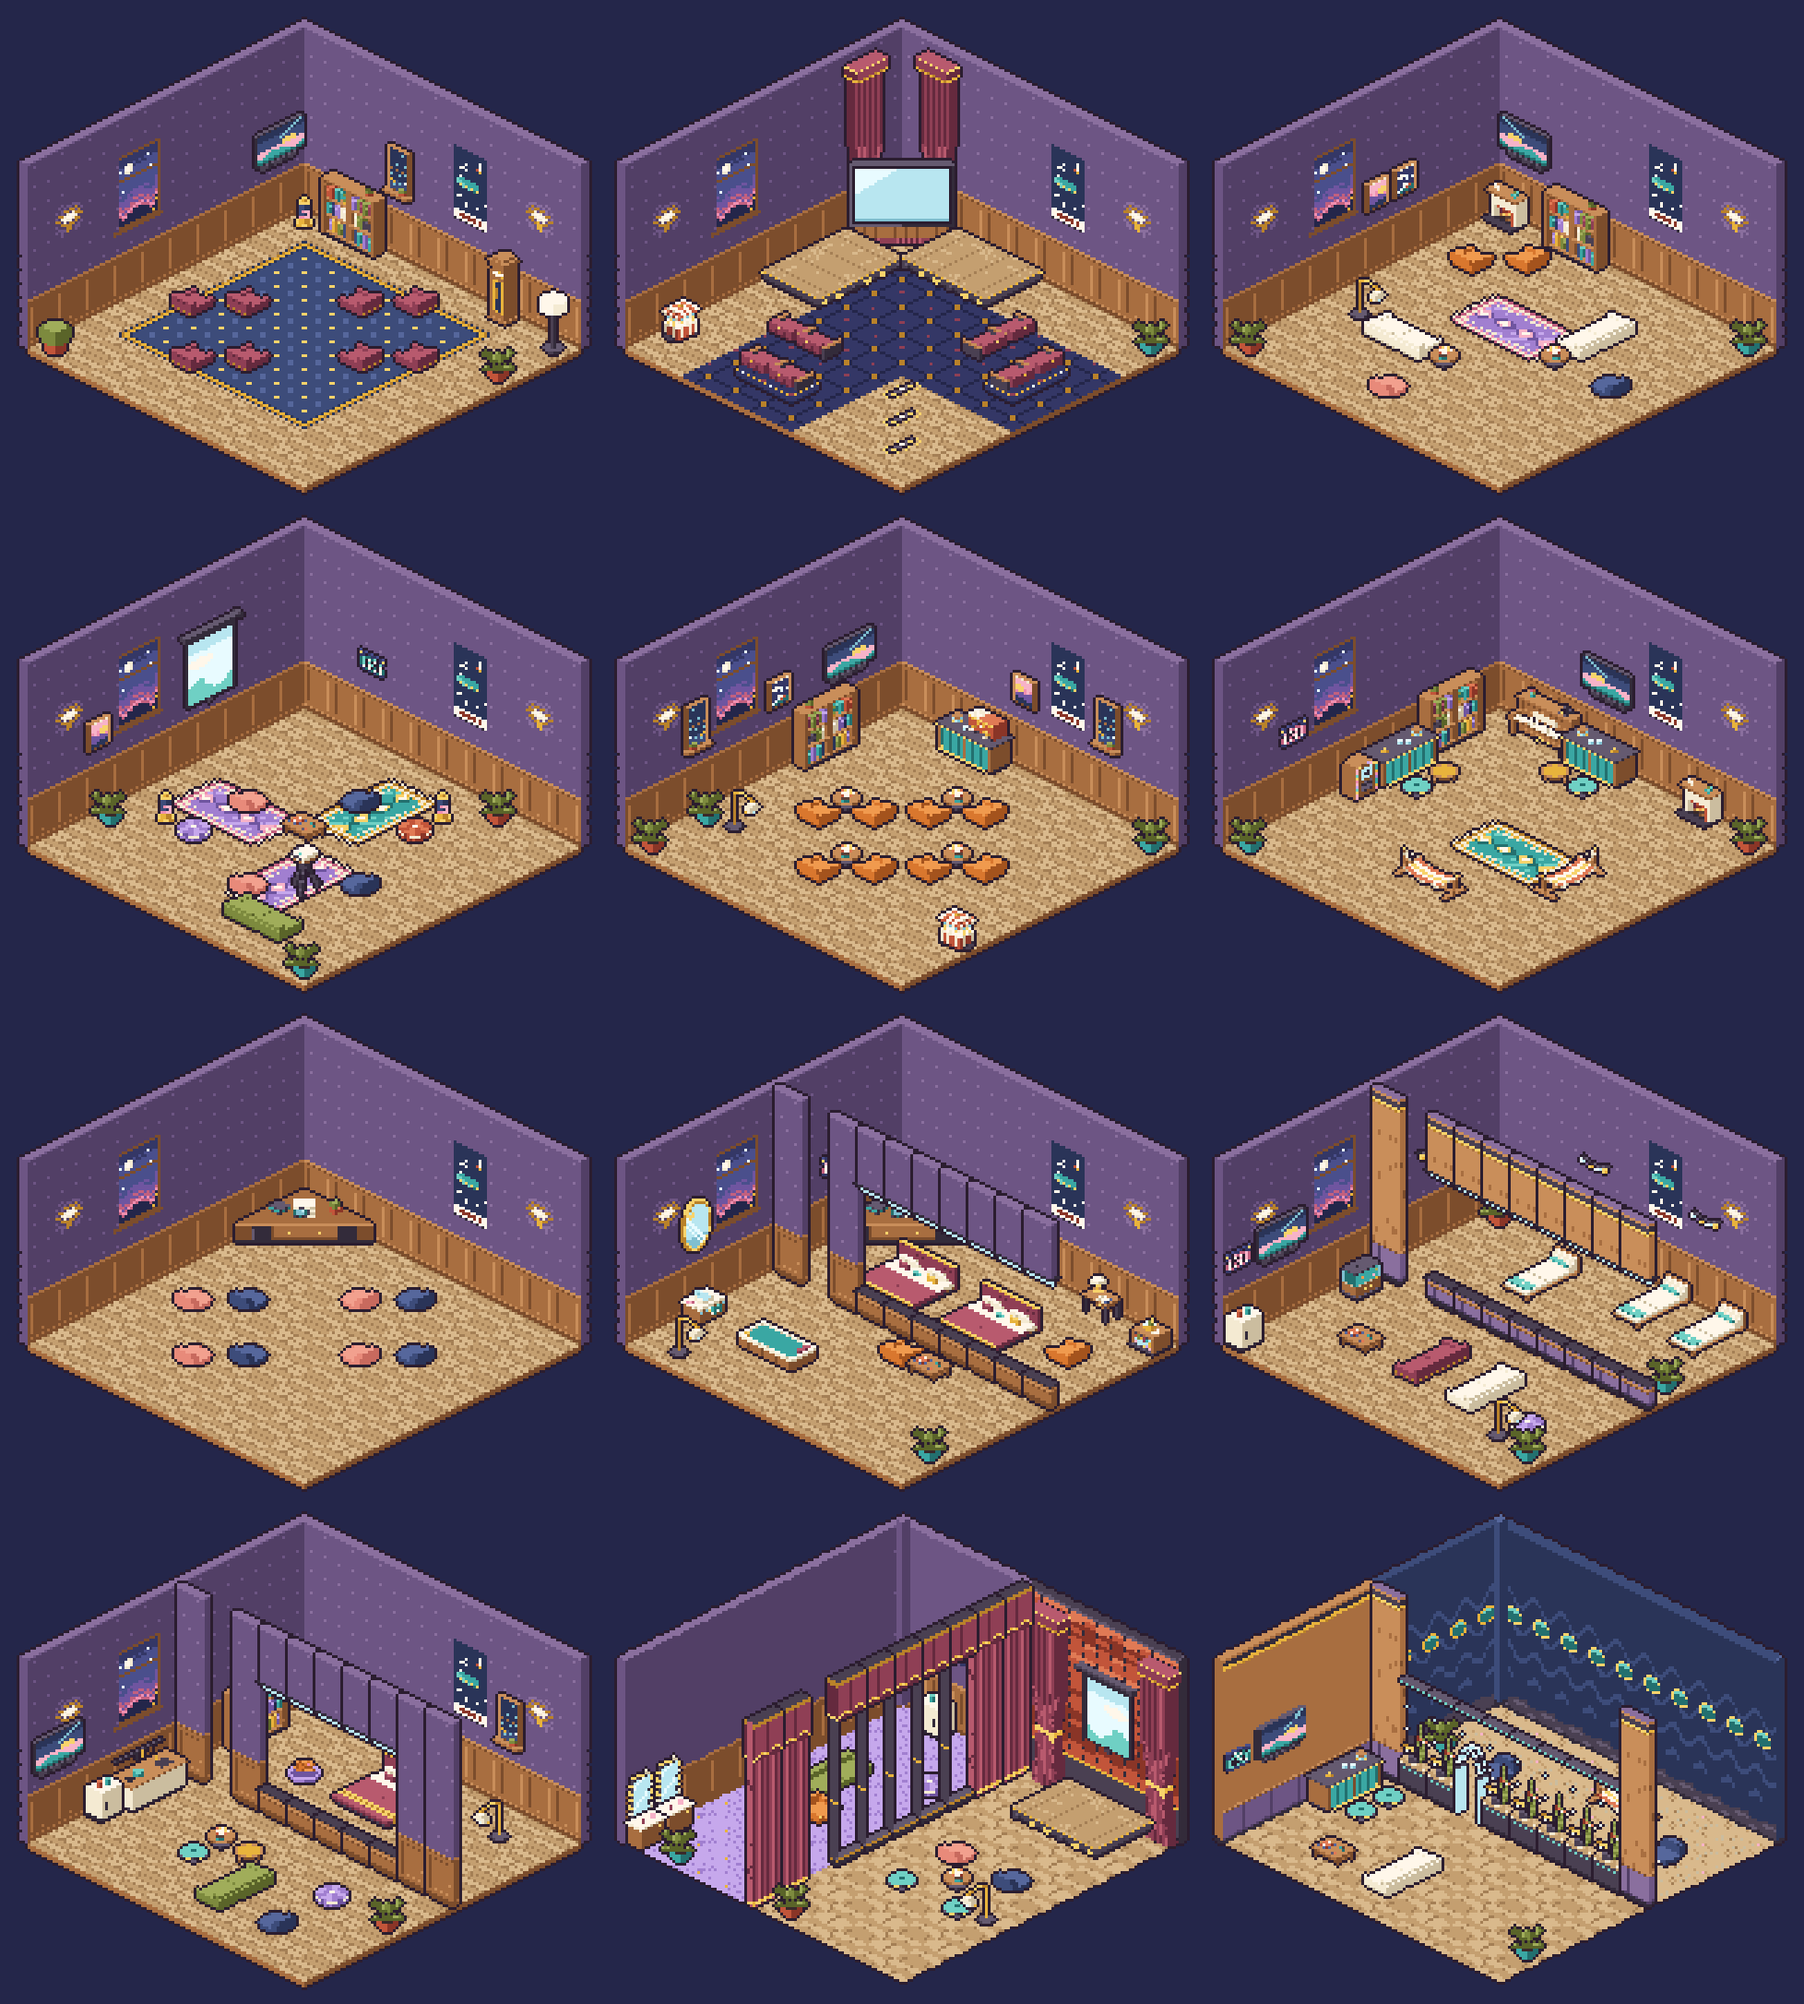
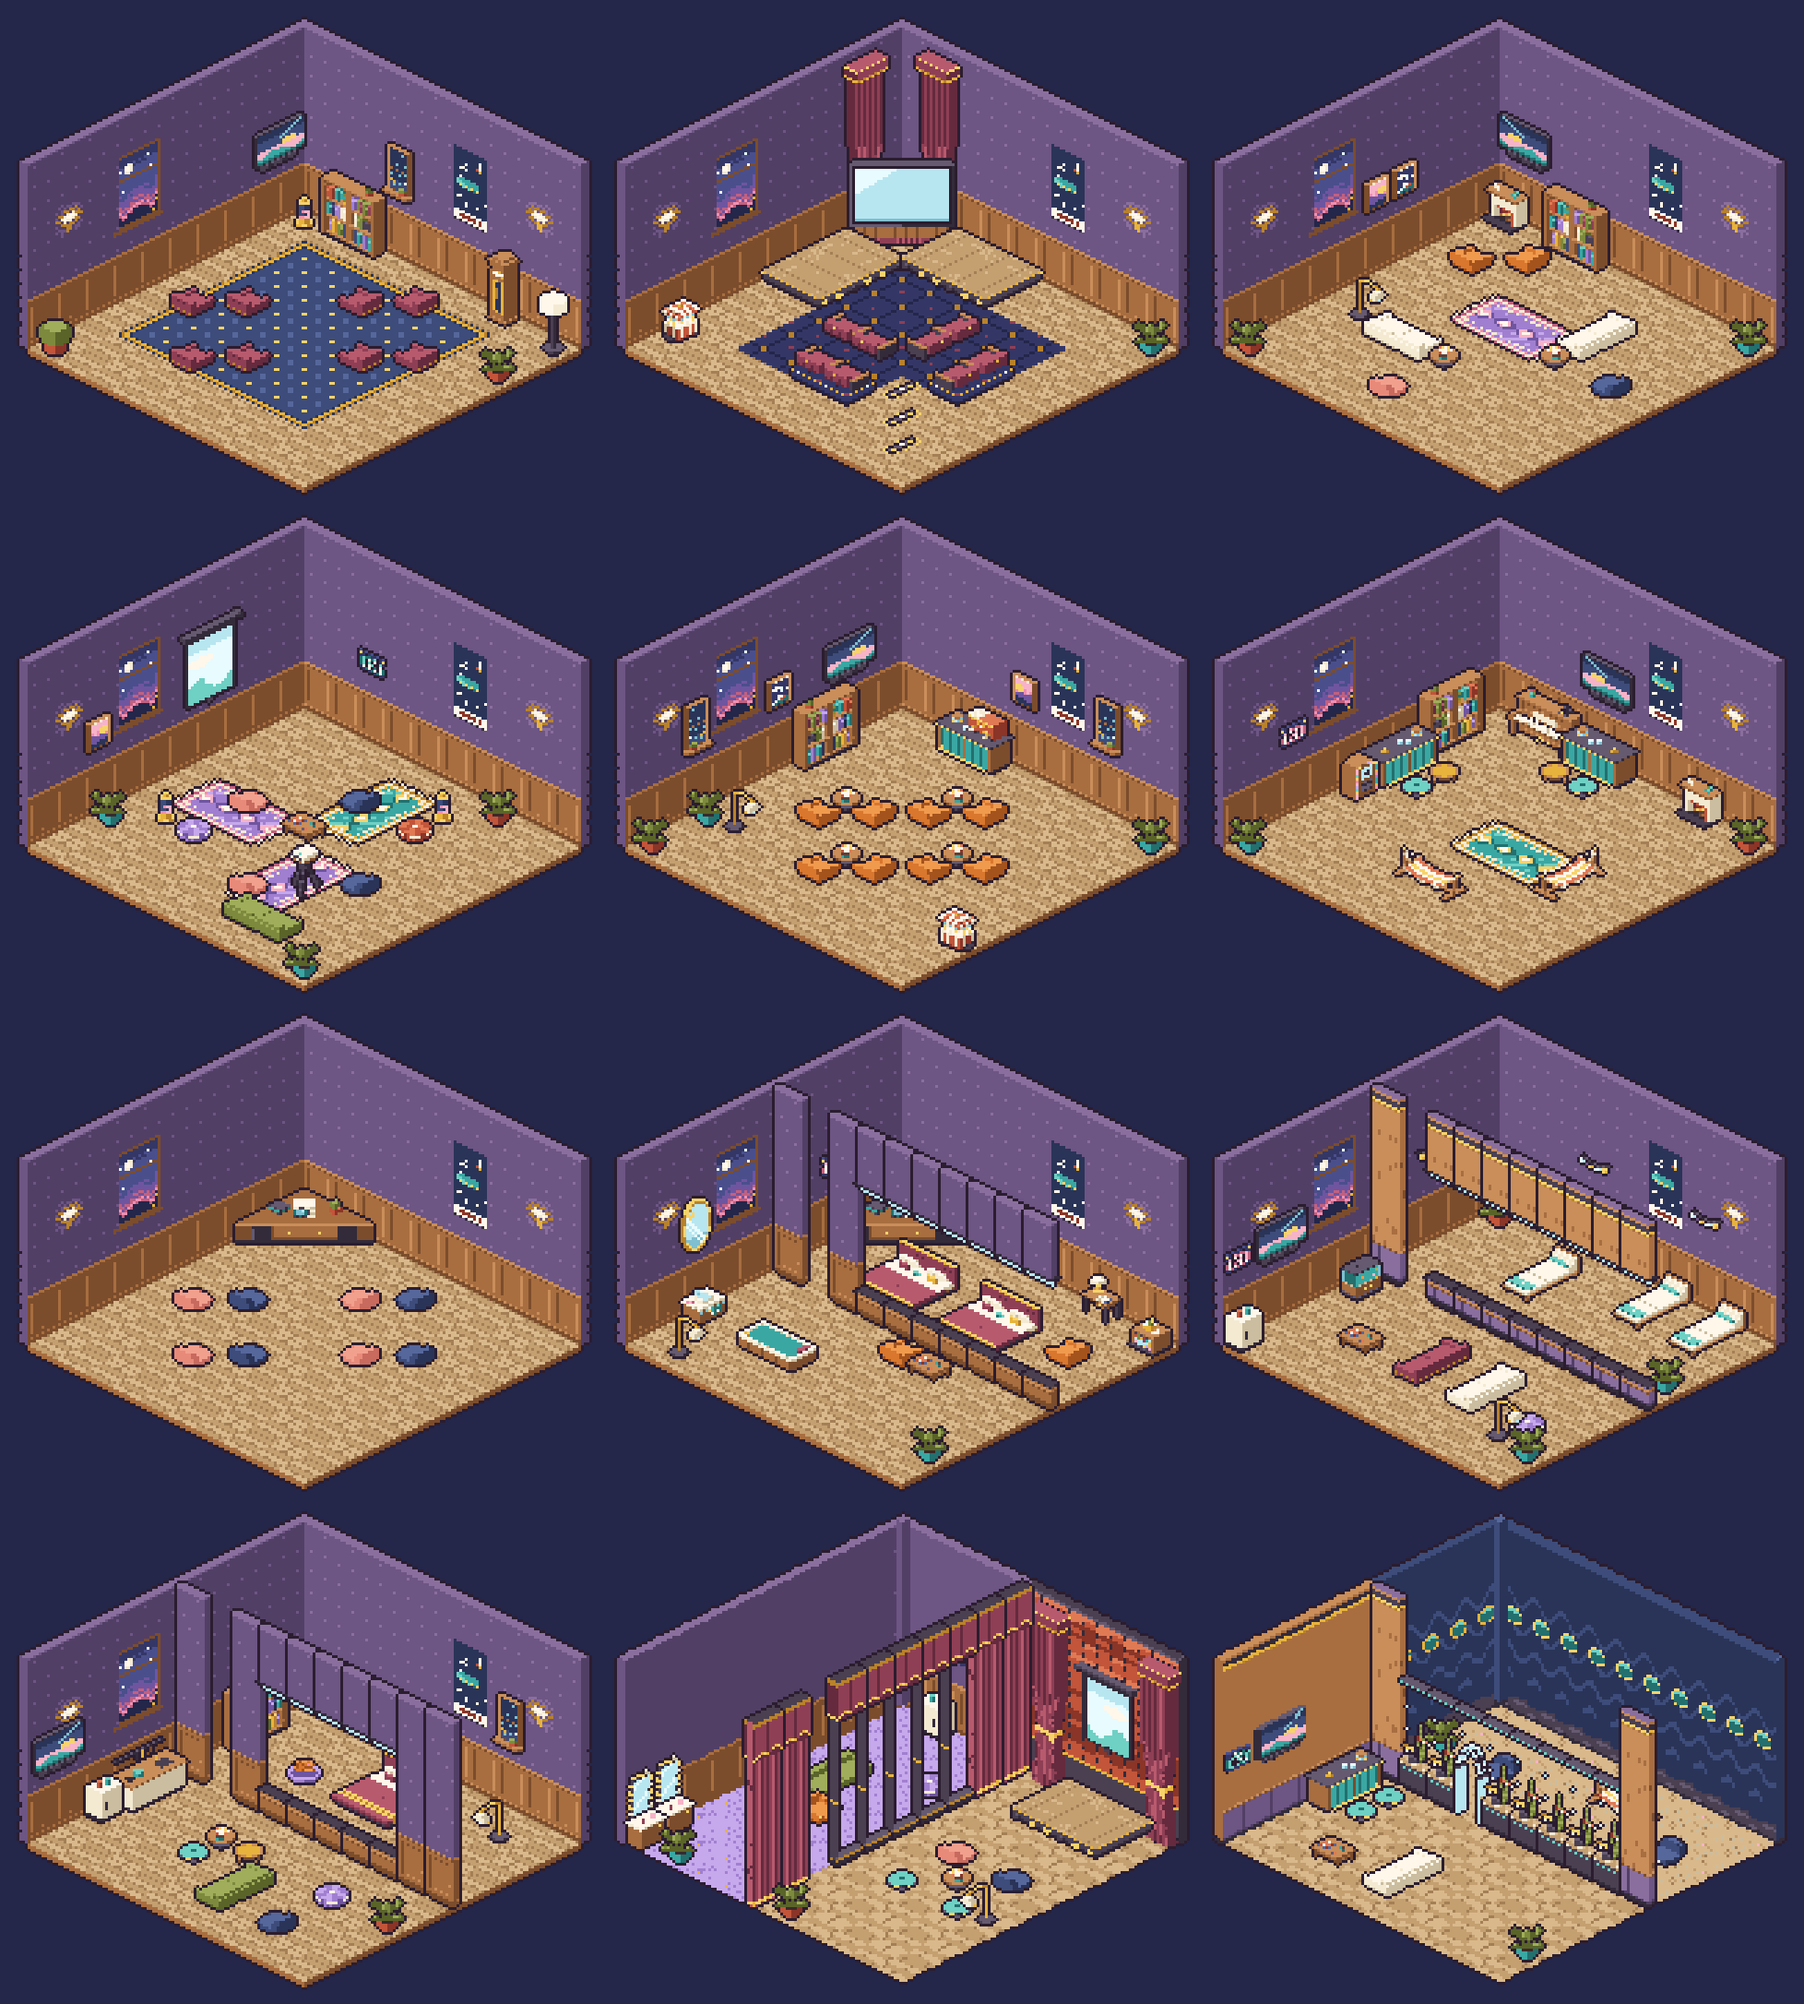
fix(assets): Theatre rows one cell in toward the aisle instead of back; the carpet as before (OME-2497)

Changed region(s): [[0.3742, 0.1542, 0.6237, 0.2159]]

diff --git a/assets/src/presets.ts b/assets/src/presets.ts
@@ -58,16 +58,16 @@ export const PRESETS: readonly Preset[] = [
         // The theatre set (OME-1639's judged theatre room, OME-1630), its stage risers (wave 26) under the big screen and
         // the curtains on them (OME-2480, OME-2471's judged concept): the carpet and both tiers one cell back, so the
         // back tier still stands a free row behind the front one (OME-2150), aisle lights down the middle. OME-2497: both tiers
-        // one more cell back, so no row touches a riser, and the carpet follows them.
+        // one cell in toward the aisle, so no row touches a riser, not even corner to corner (one cell back puts seat 7
+        // under a phone's zoom keys).
         p("bigscreen", 0, 0, "se"),
         p("stage", 2, 0, "sw"), p("stage", 0, 2, "se"),
         p("curtain", 1, 0, "sw"), p("curtain", 0, 1, "se"),
-        p("carpet", 2, 2, "se"), p("carpet", 4, 2, "se"), p("carpet", 6, 2, "se"), p("carpet", 8, 2, "se"),
-        p("carpet", 2, 4, "se"), p("carpet", 4, 4, "se"), p("carpet", 6, 4, "se"), p("carpet", 8, 4, "se"),
-        p("carpet", 2, 6, "se"), p("carpet", 4, 6, "se"), p("carpet", 2, 8, "se"), p("carpet", 4, 8, "se"),
+        p("carpet", 2, 2, "se"), p("carpet", 4, 2, "se"), p("carpet", 6, 2, "se"), p("carpet", 2, 4, "se"),
+        p("carpet", 4, 4, "se"), p("carpet", 6, 4, "se"), p("carpet", 2, 6, "se"), p("carpet", 4, 6, "se"),
         p("aislelight", 6, 6, "nw"), p("aislelight", 7, 7, "nw"), p("aislelight", 8, 8, "nw"),
-        p("theatrerow", 2, 6, "ne"), p("theatrerow", 6, 2, "nw"),
-        p("theatrerow", 3, 8, "ne", 1), p("theatrerow", 8, 3, "nw", 1),
+        p("theatrerow", 3, 5, "ne"), p("theatrerow", 5, 3, "nw"),
+        p("theatrerow", 4, 7, "ne", 1), p("theatrerow", 7, 4, "nw", 1),
         p("popcorn", 0, 8, "se"), p("monstera", 9, 0, "sw", 1),
       ],
     },
